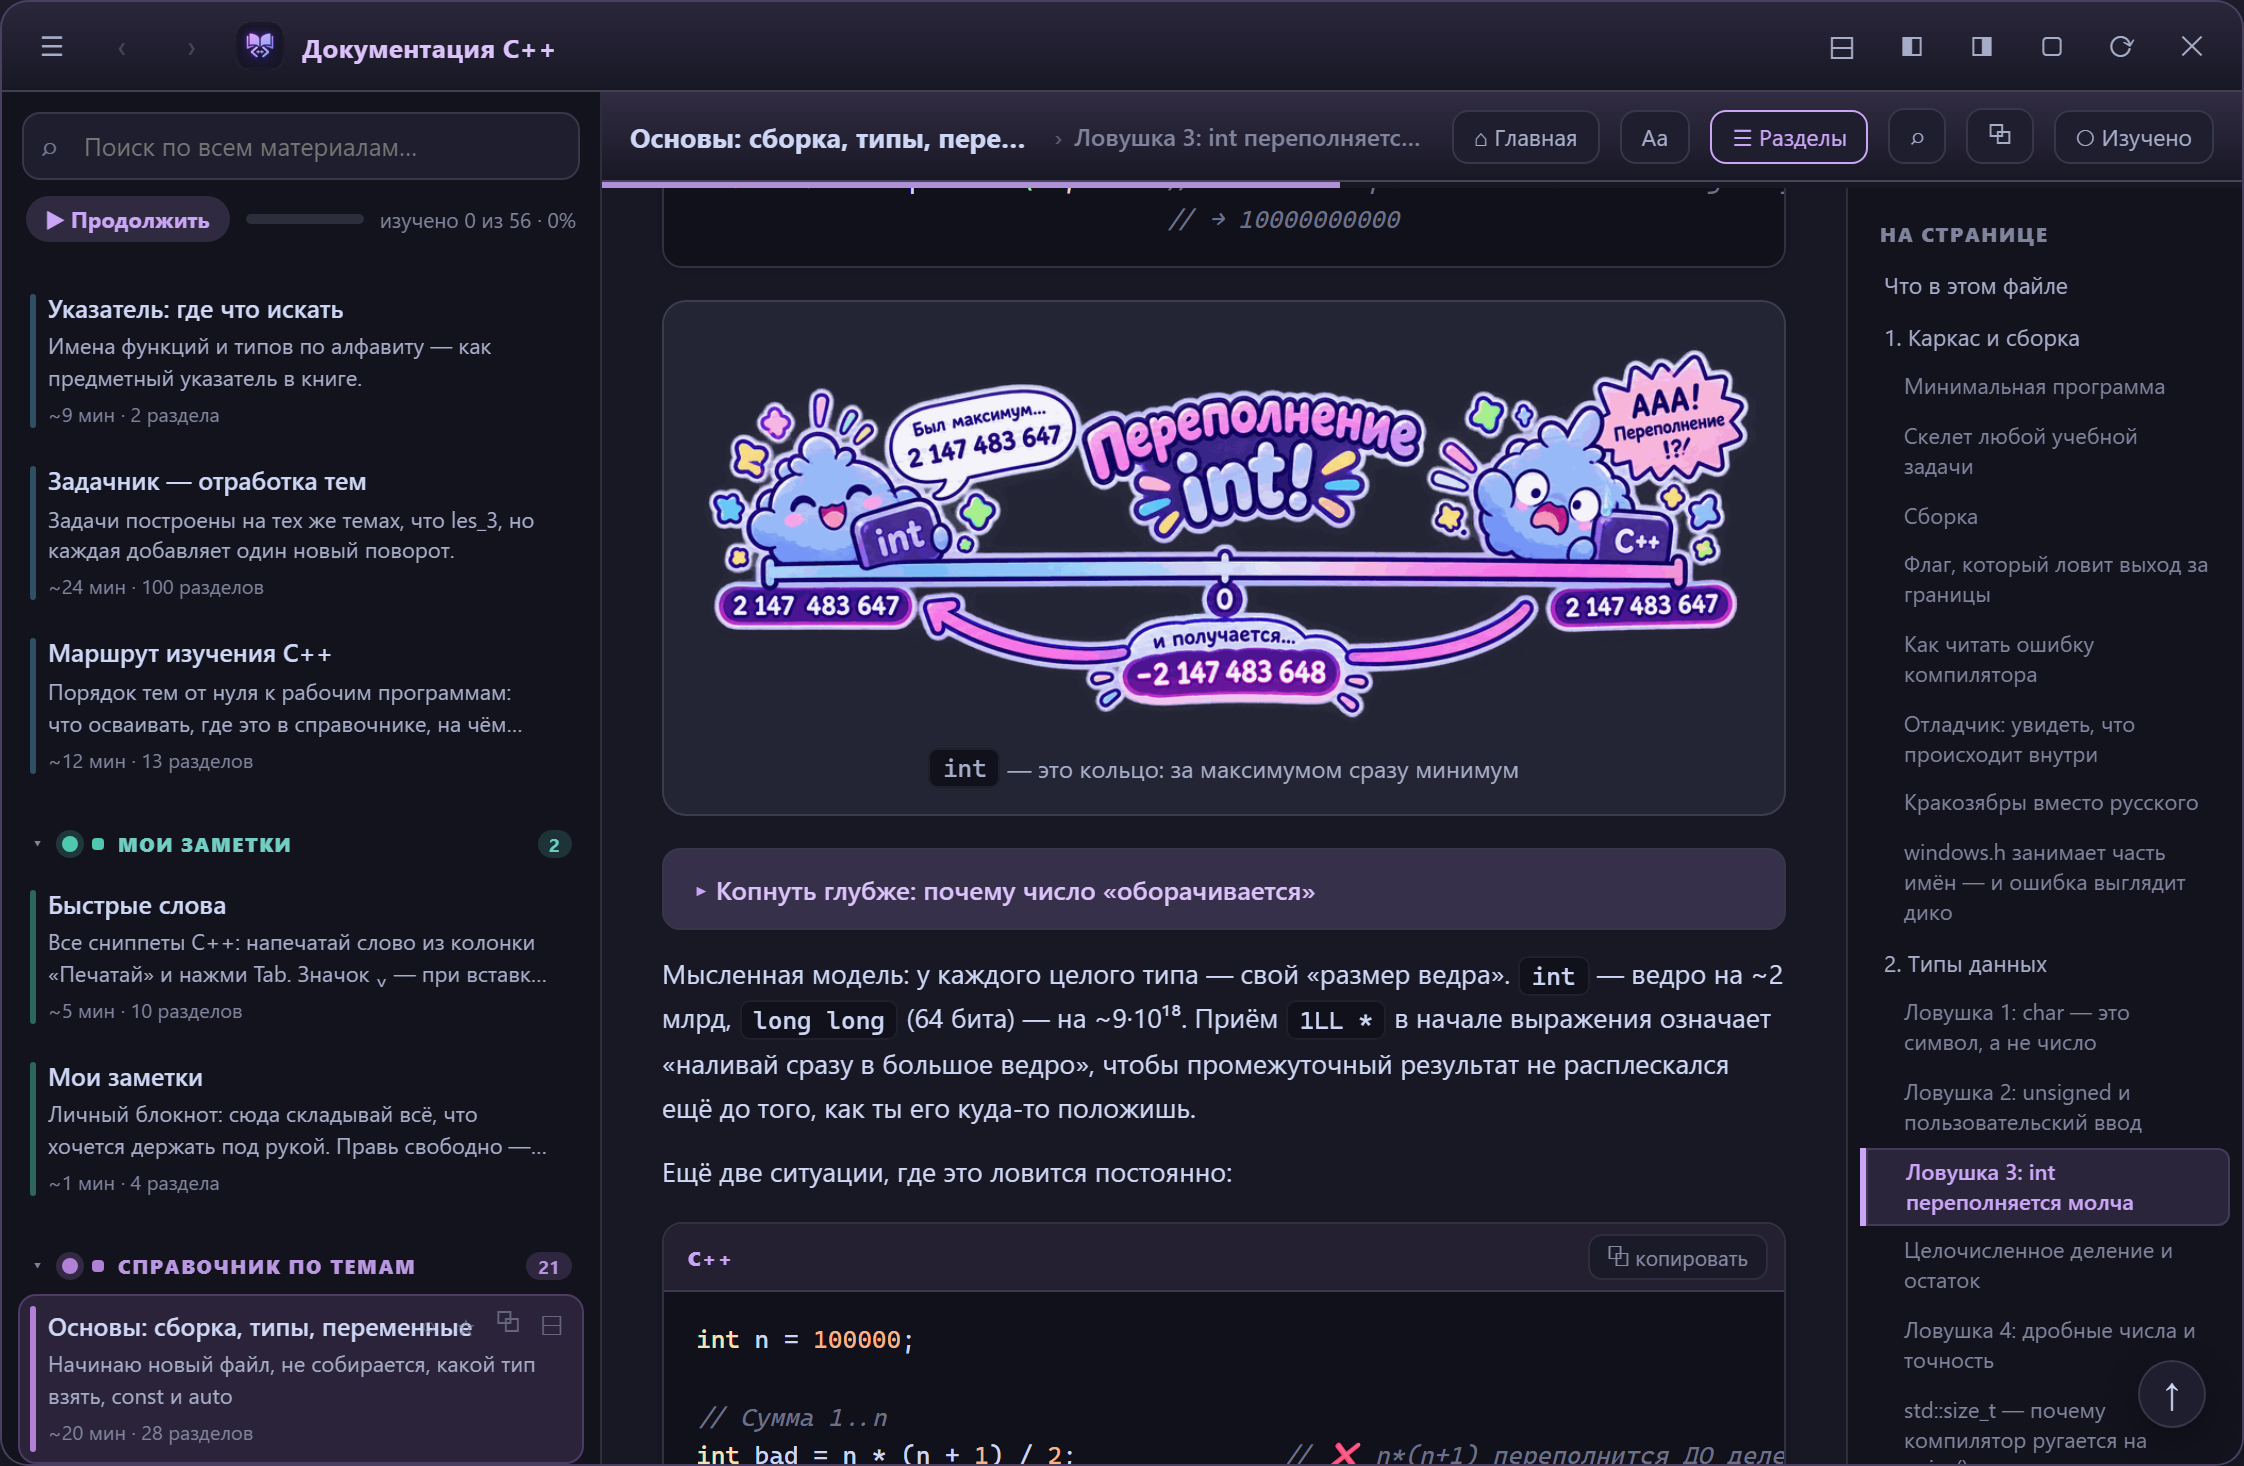
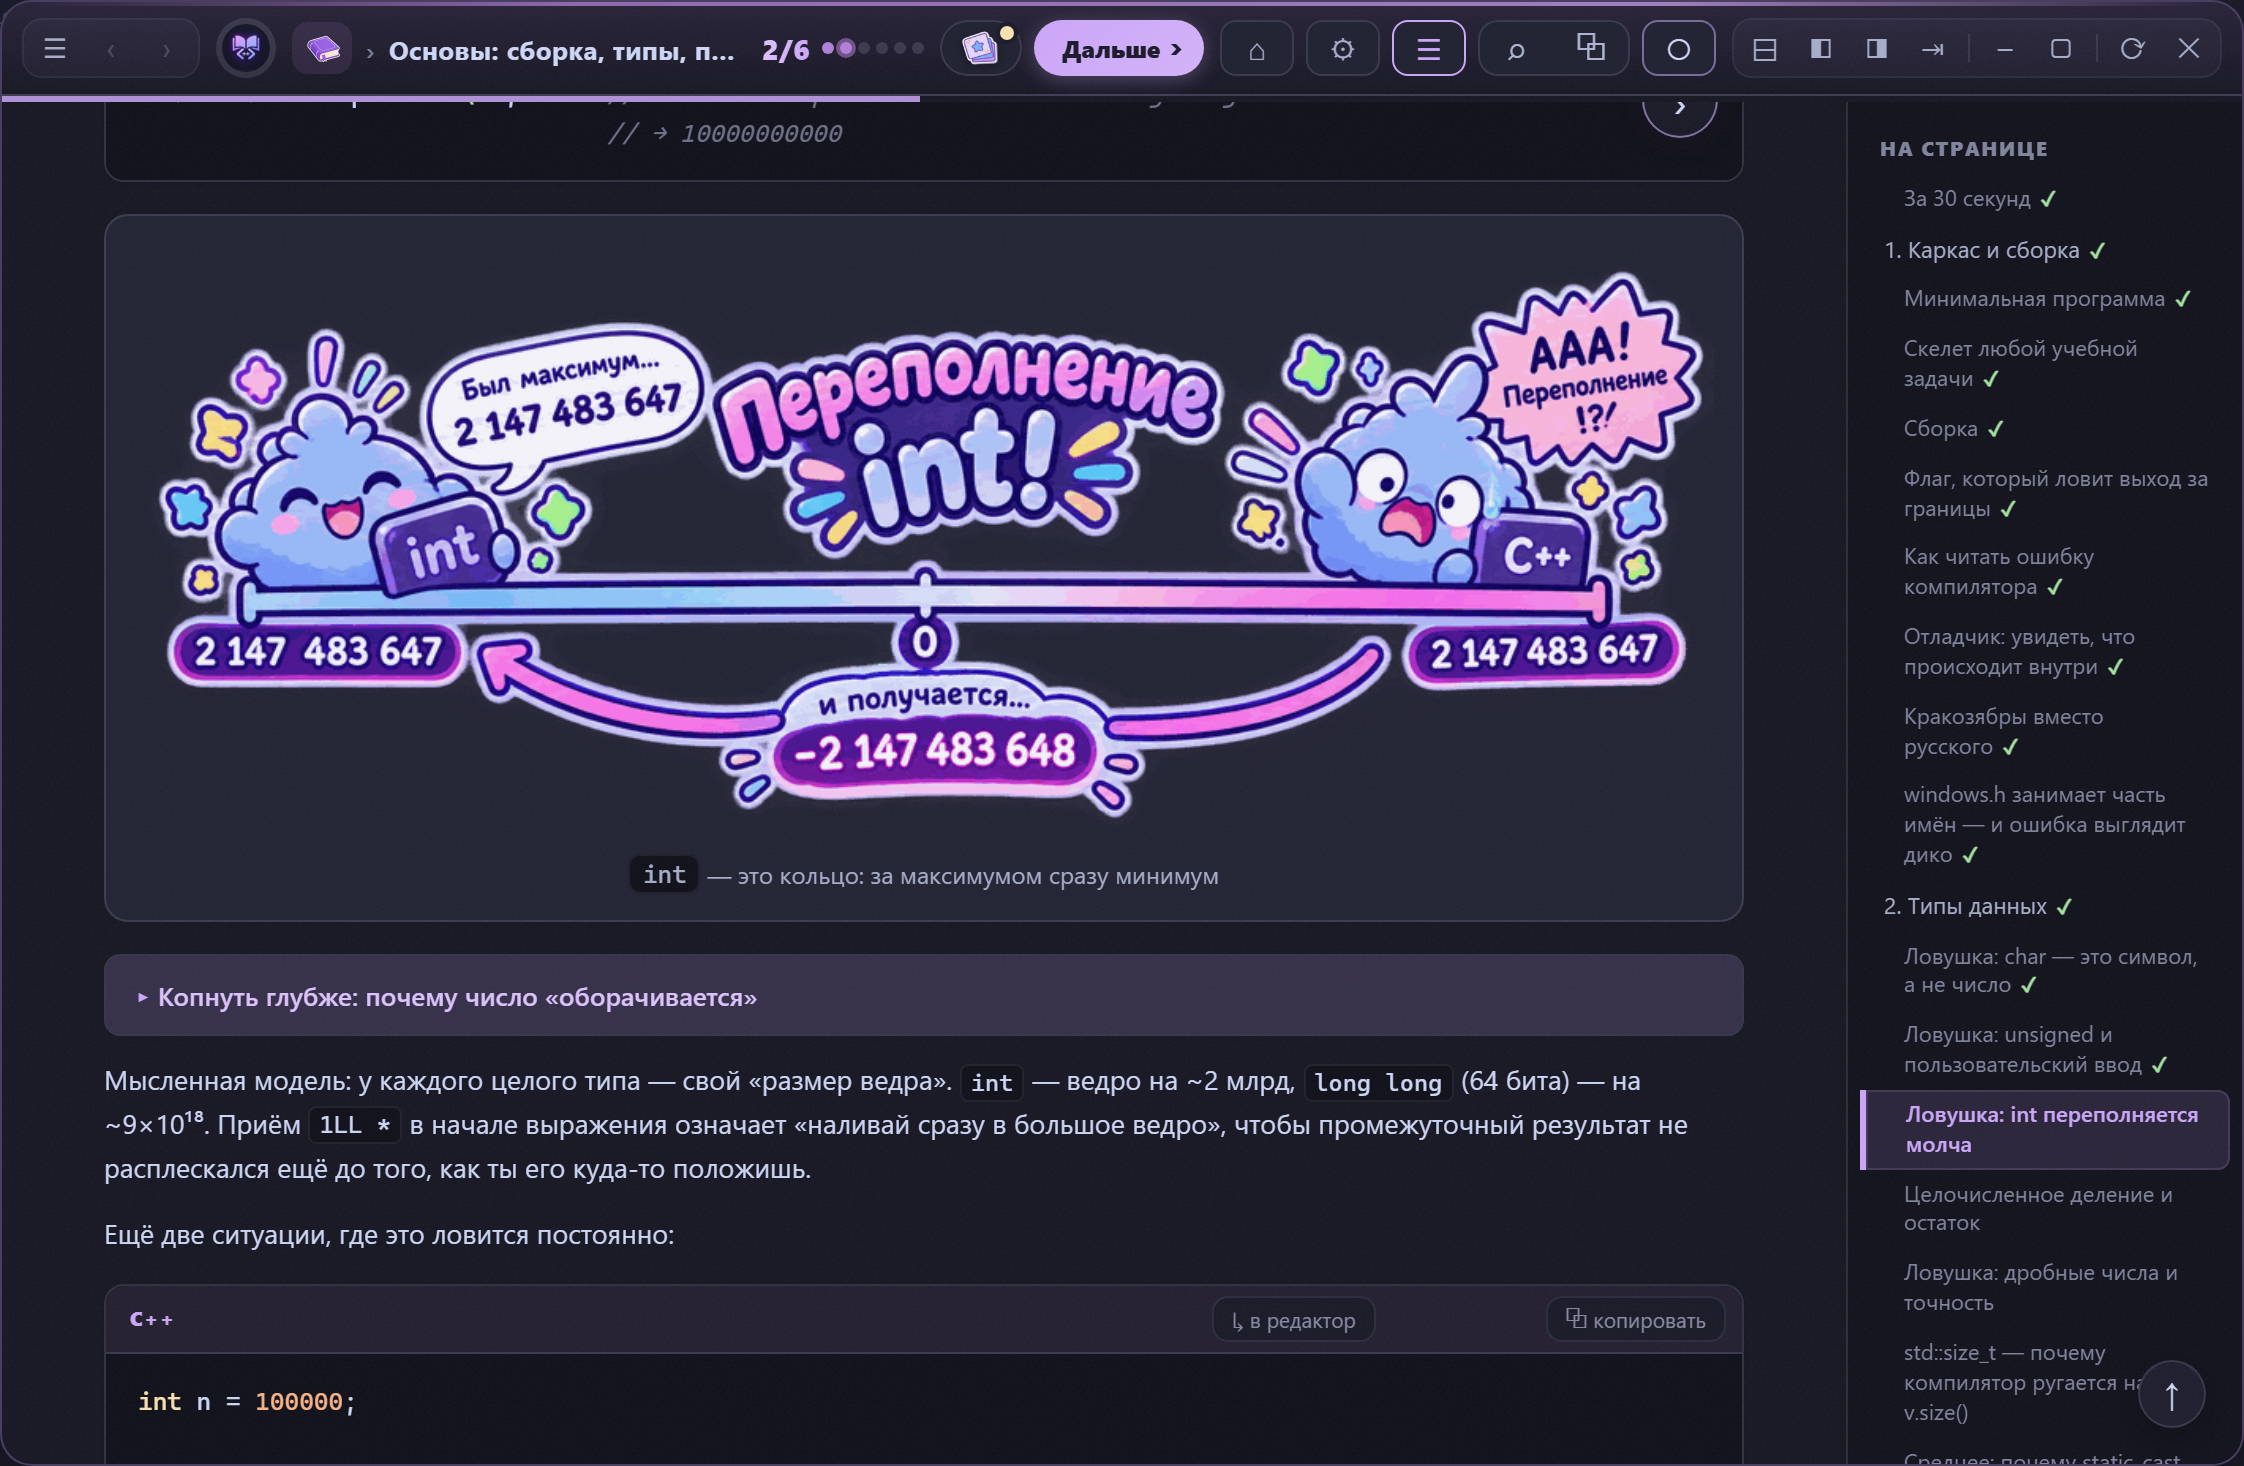
Свежие скриншоты (без подсказки-знакомства на главном экране) и баннер на странице

diff --git a/scripts/screenshots.js b/scripts/screenshots.js
@@ -155,6 +155,11 @@ function editorBackdrop() {
         await page.locator("#cppdocs-window").waitFor({ state: "visible", timeout: 10000 });
         await page.evaluate(editorBackdrop);
         await page.waitForTimeout(900);
+        // Знакомство в 3 шага при первом открытии закрывает главный экран — пропускаем его, как человек.
+        await page.evaluate(function () {
+          var skip = document.querySelector("#cppdocs-window .cd-tour-skip");
+          if (skip) skip.click();
+        });
         // Домашний экран — абсолютный оверлей поверх статьи-подложки. В headless она не успевает
         // догаснуть и просвечивает между карточками — прячем её и фиксируем home на opacity 1.
         await page.evaluate(function () {

diff --git a/extension/README.md b/extension/README.md
@@ -1,6 +1,6 @@
 <div align="center">
 
-<img src="https://raw.githubusercontent.com/moonlivedt-oss/cpp-panel-Moon/main/docs/screenshots/logo.png" alt="Документация C++" width="120">
+<img src="https://raw.githubusercontent.com/moonlivedt-oss/cpp-panel-Moon/main/docs/screenshots/banner-marketplace.webp" alt="Документация C++: двое читают светящуюся книгу с фигурными скобками в ночной библиотеке" width="880">
 
 # Документация C++
 
